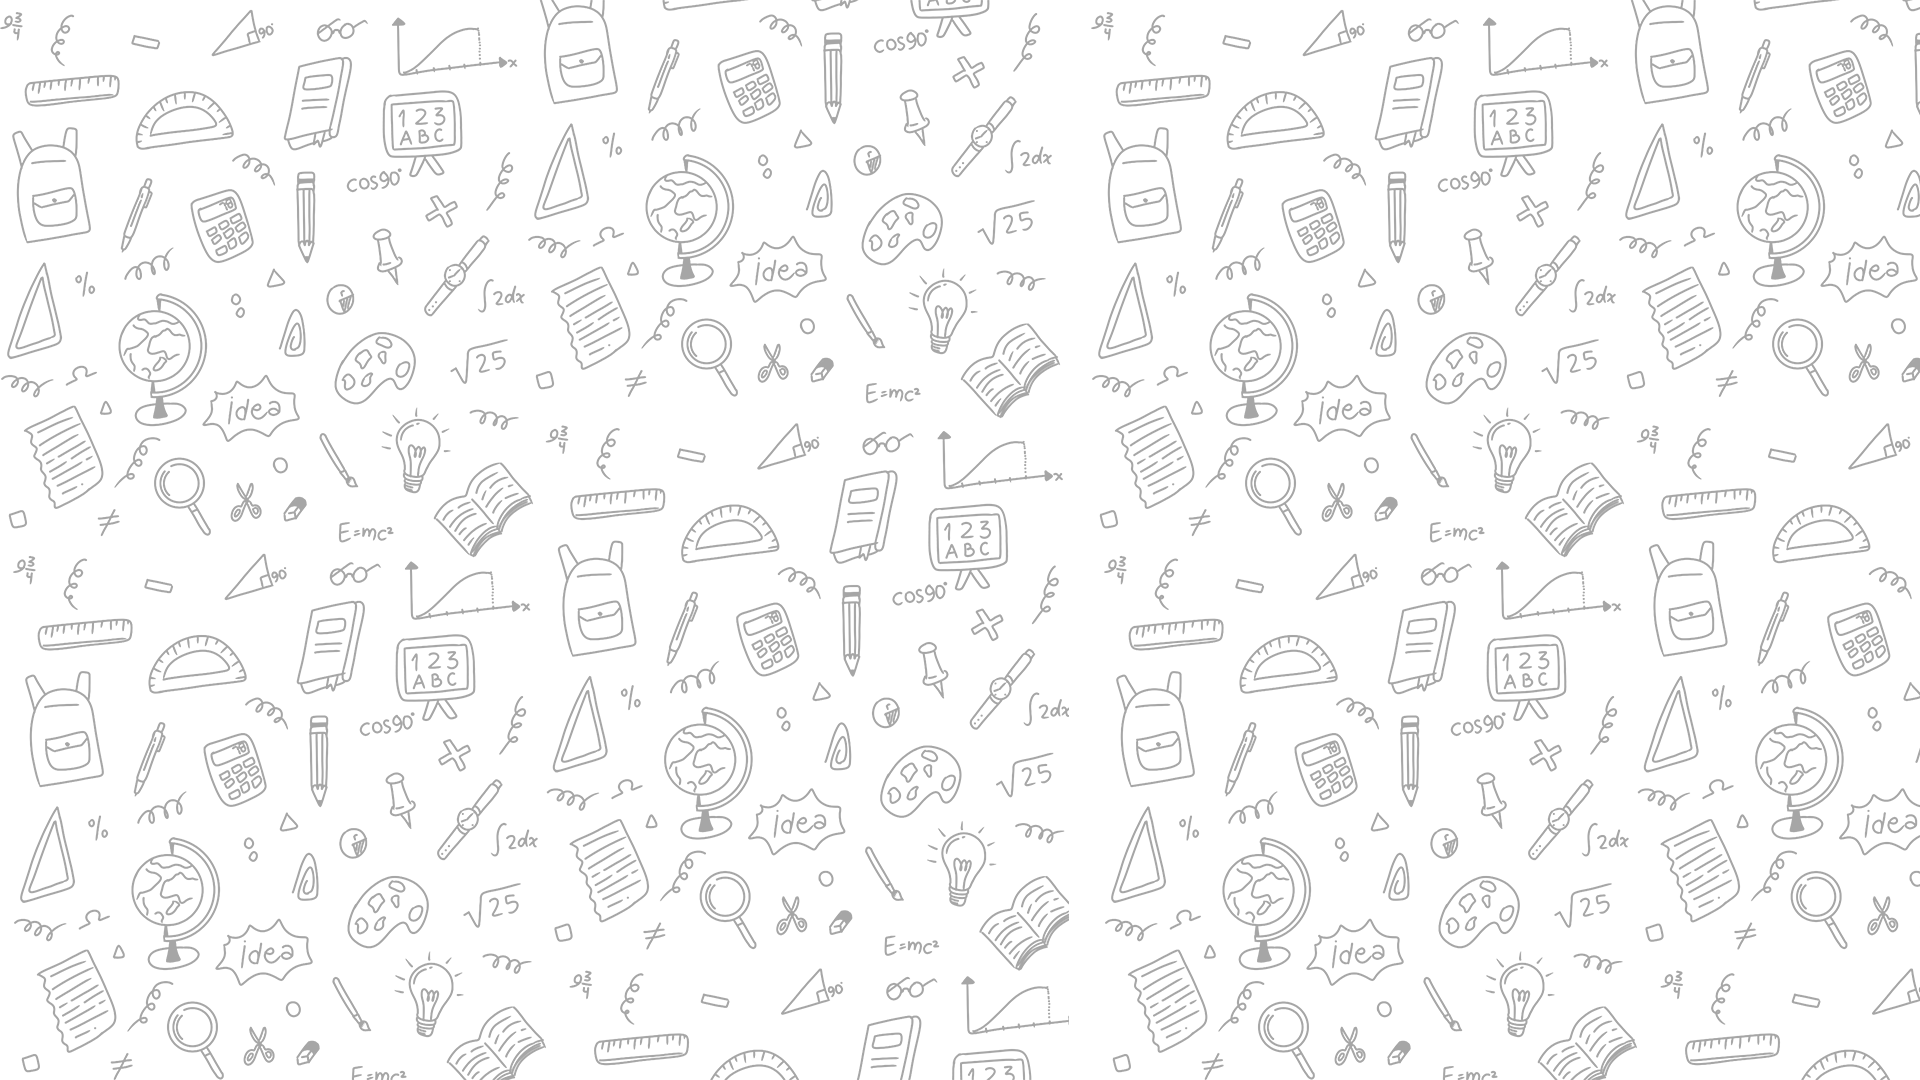
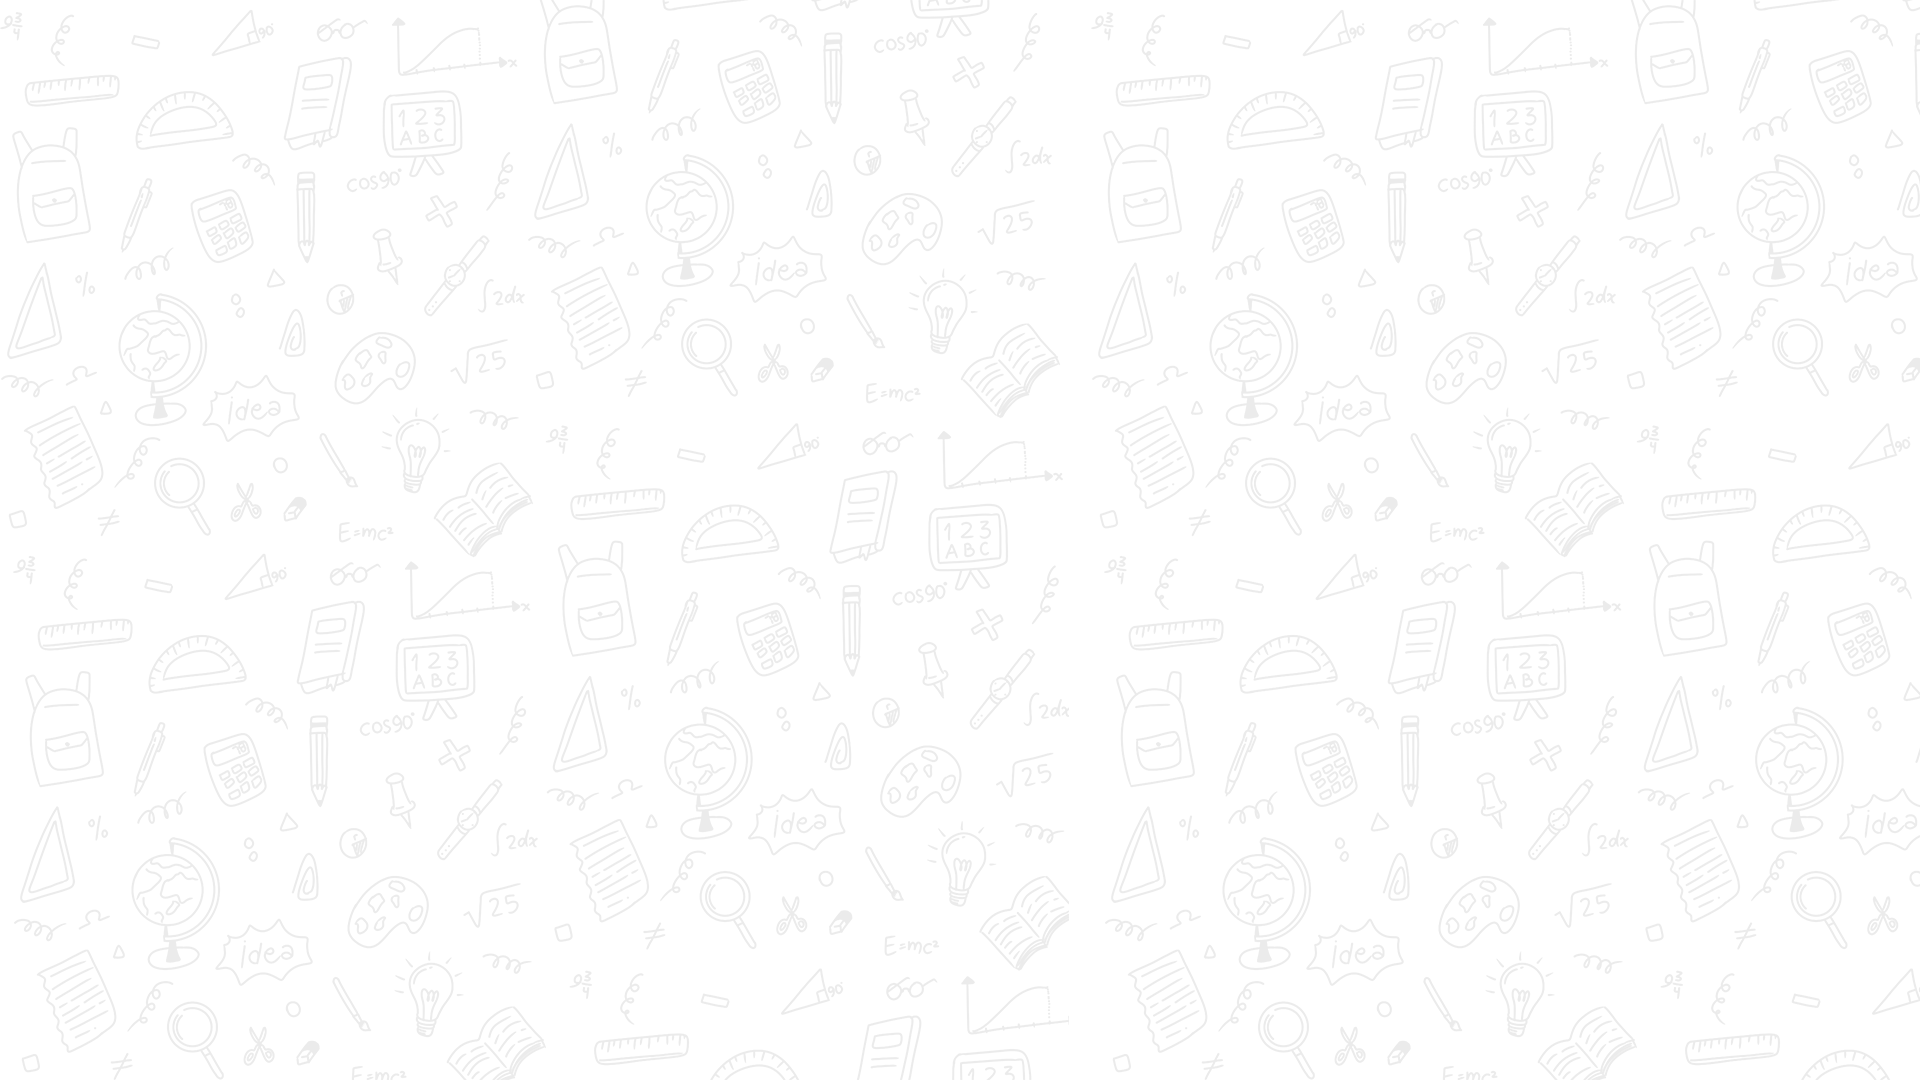
fixed background pattern

diff --git a/styles/student-home-page.css b/styles/student-home-page.css
@@ -11,8 +11,8 @@ html {
 }
 
 body {
-  background-color: var(--clr-surface-a10);
-  background-image: url("../assets/imgs/unitrack-images/pattern-black.png");
+  background-color: var(--clr-surface-a0);
+  background-image: url("../assets/imgs/unitrack-images/pattern-blue.png");
   background-repeat: repeat;
   color: var(--clr-contrast-a0);
   font-family: "Inter", sans-serif;
@@ -39,7 +39,8 @@ main {
 }
 
 .hero {
-  background: var(--clr-surface-tonal-a0);
+  background: var(--clr-surface-a0);
+  border: 1px solid var(--clr-surface-a20);
   color: var(--clr-contrast-a0);
   padding: 40px 20px;
   border-radius: 10px;
